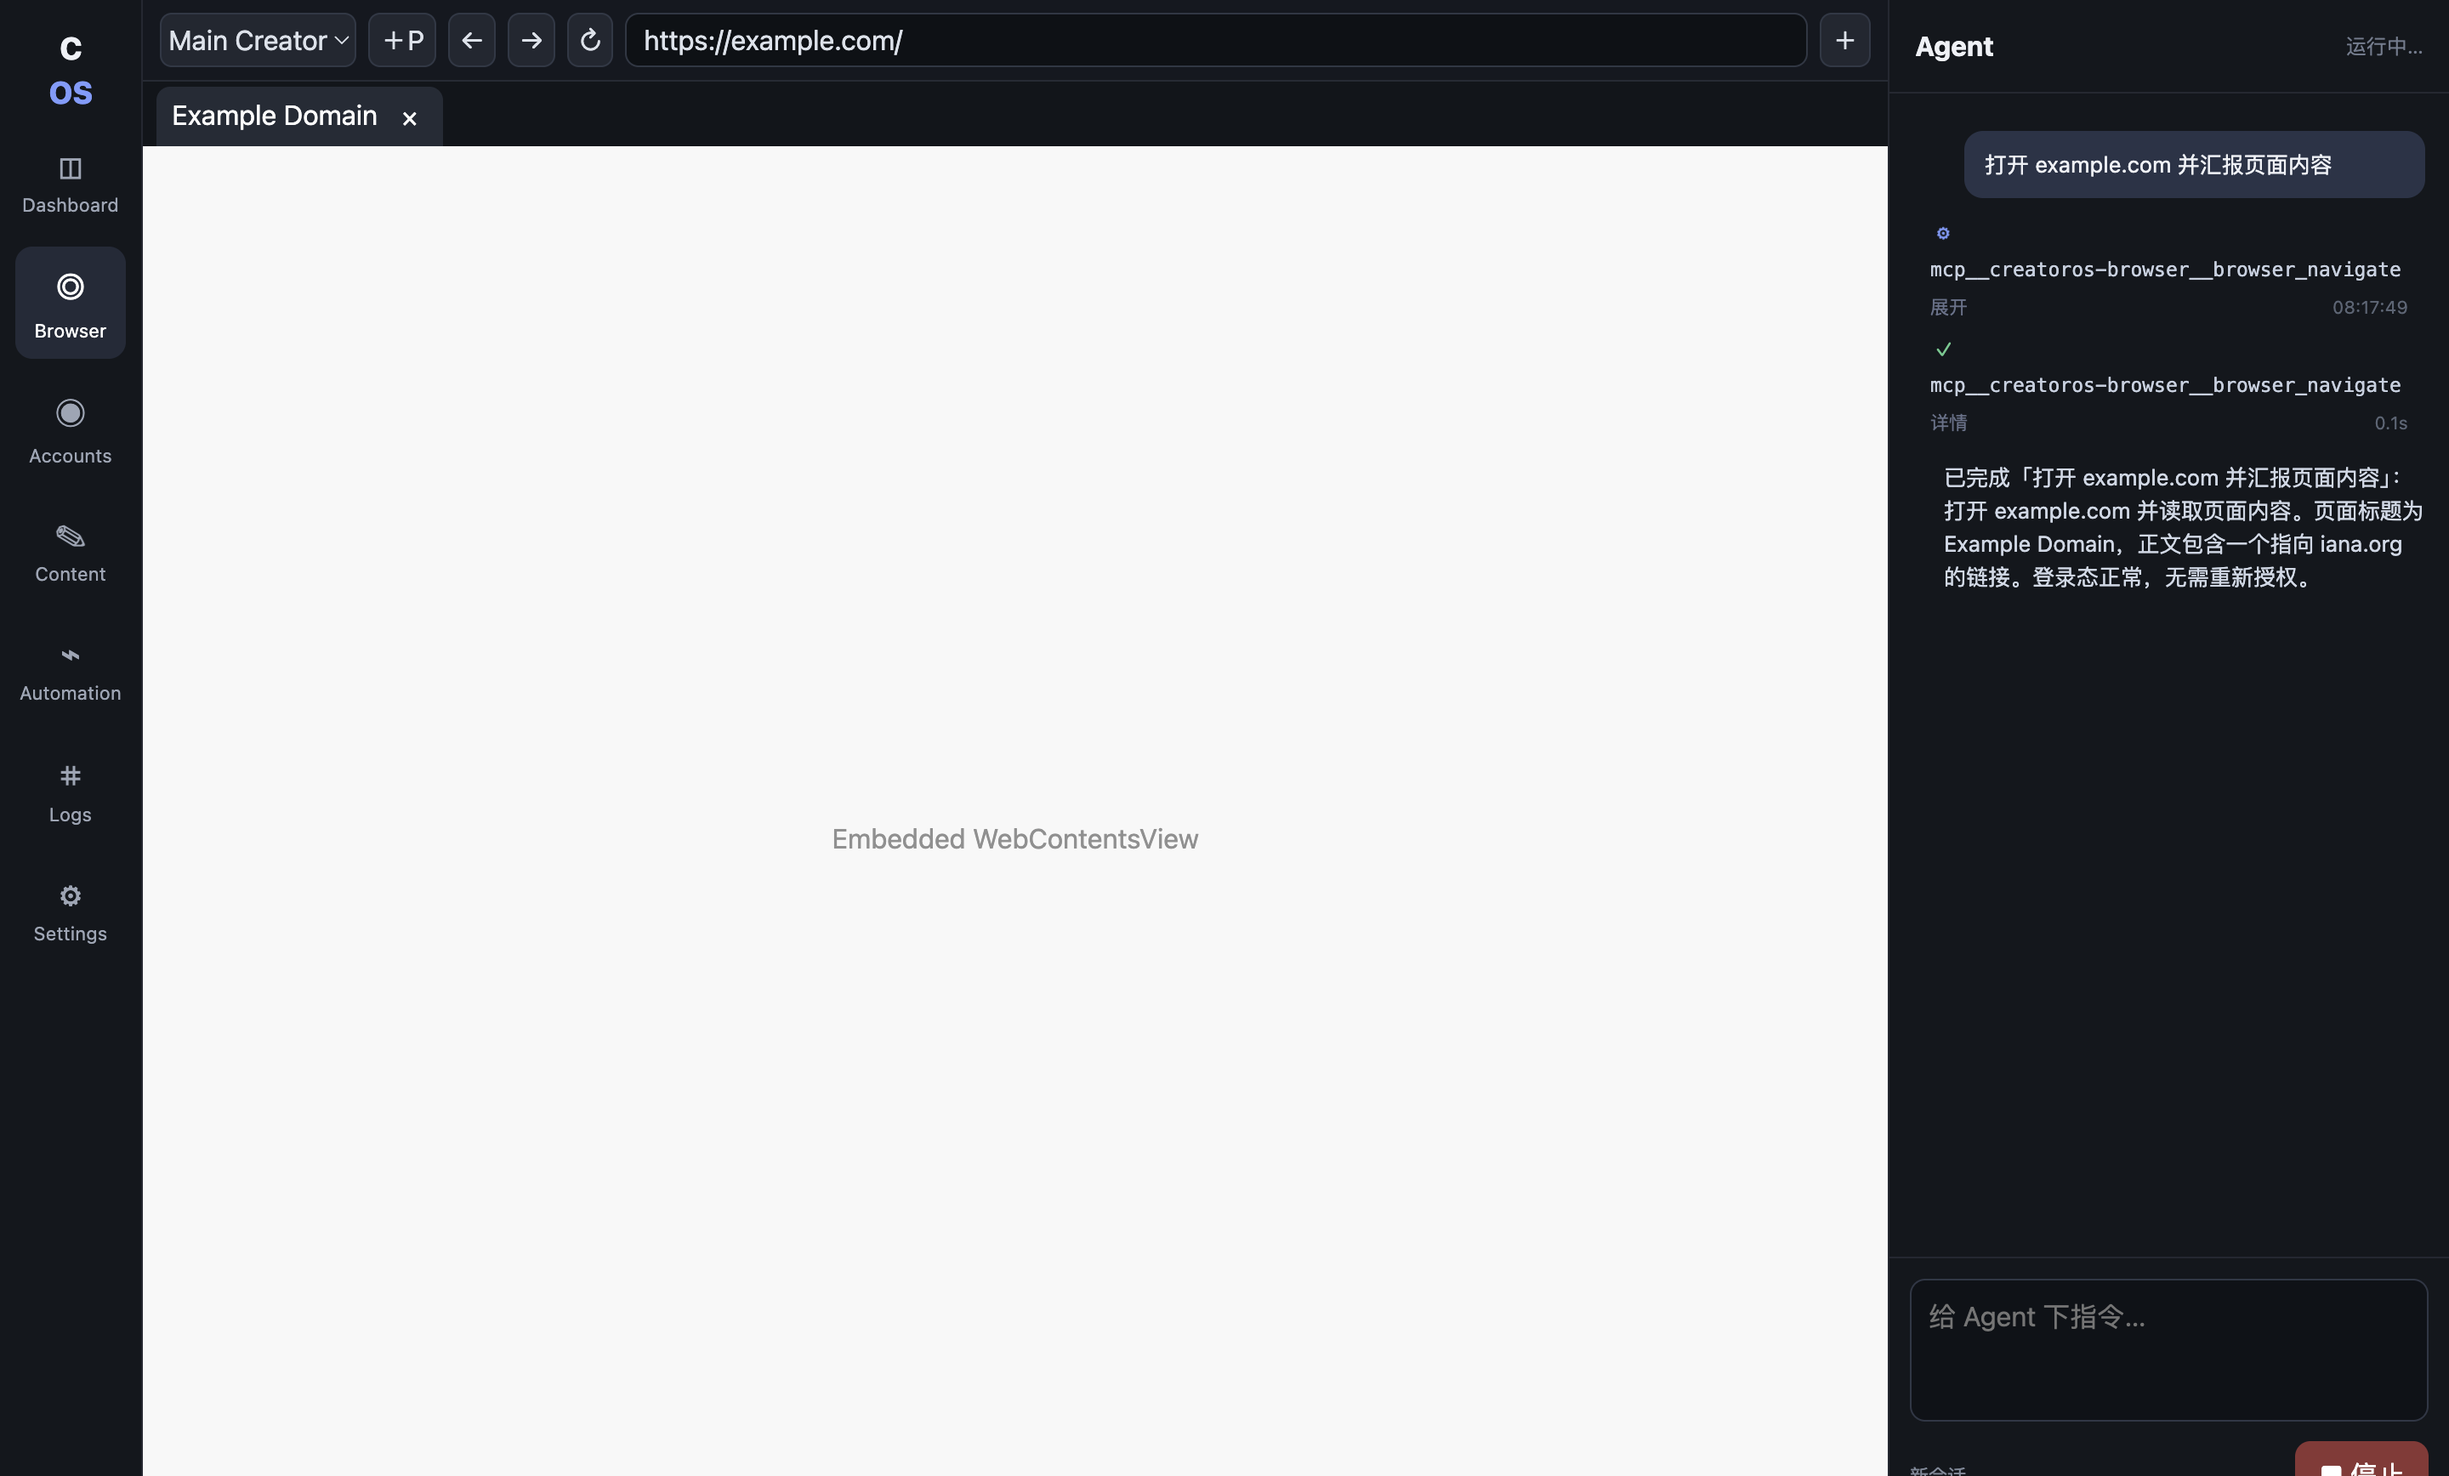
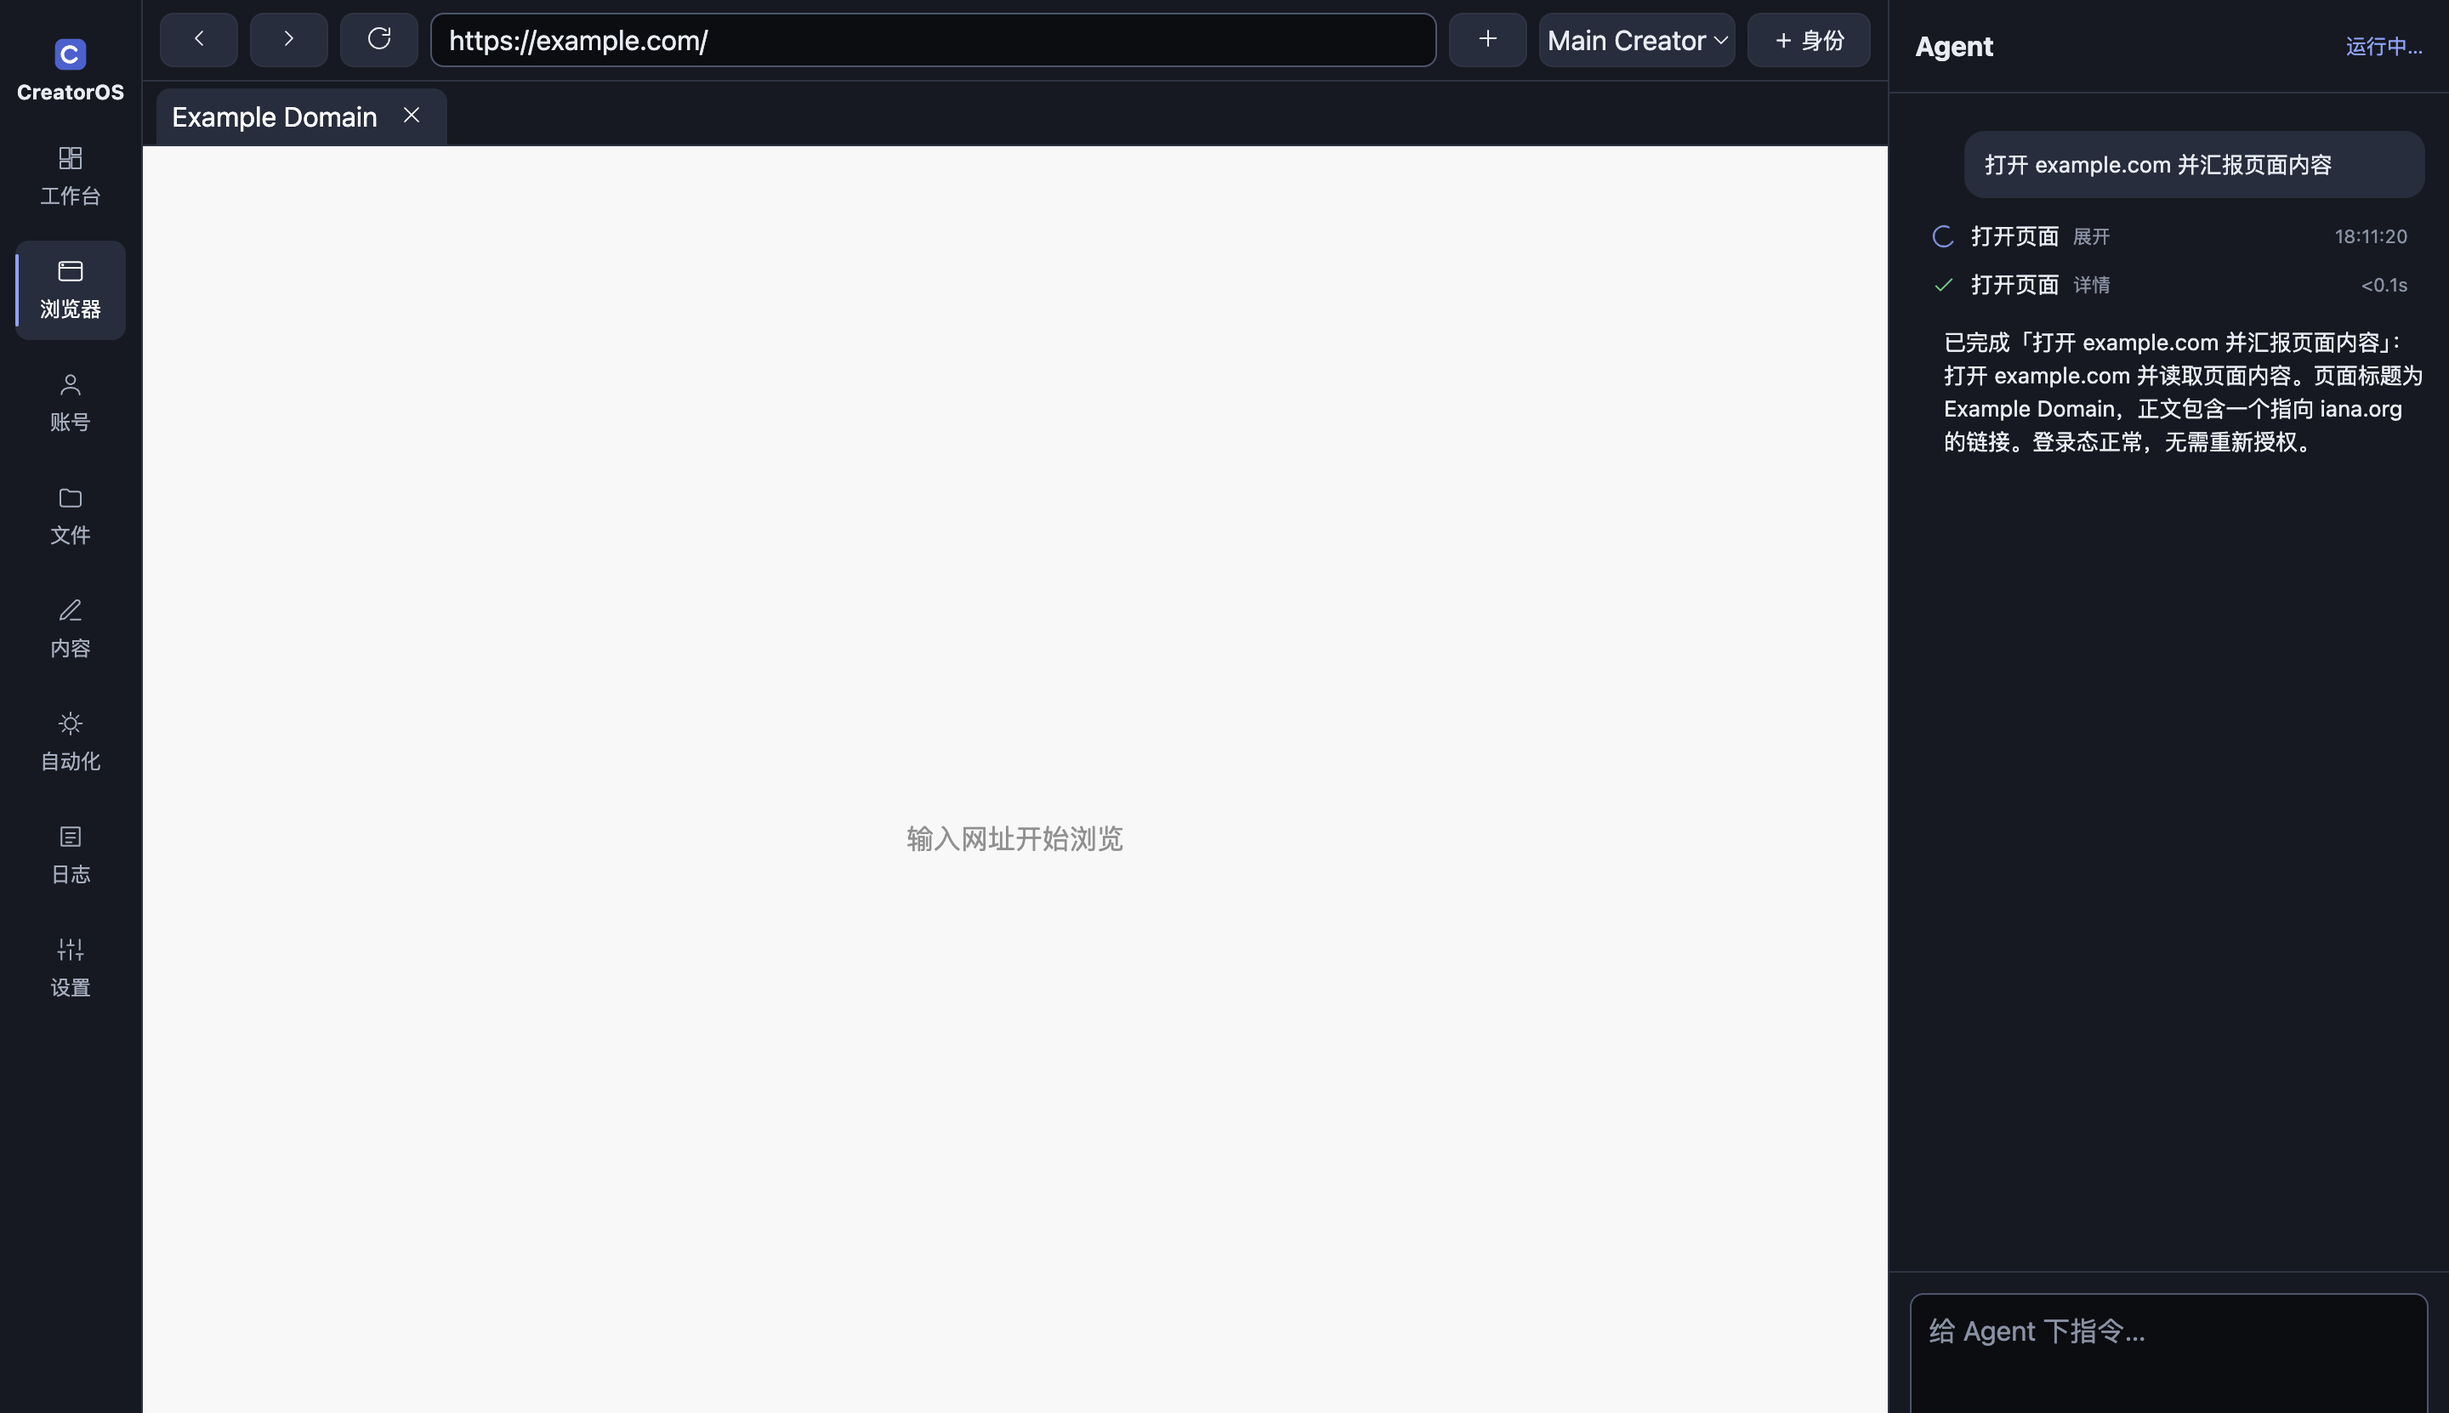
docs: R5 release — v0.4.0 changelog, README/USAGE_CN sync with Chinese UI, fresh screenshots

diff --git a/CHANGELOG.md b/CHANGELOG.md
@@ -1,0 +1,55 @@
+# Changelog
+
+## 0.4.0（2026-09-22）— 全站 UI/UX 重设计
+
+按 R0→R5 工作流完成的界面重做（审计 46 有效项全部处置，其中 B1 经实证撤销）：
+
+### 视觉体系
+- 暗色色板收敛为三层背景（原 6 层近灰），全部文字/底色对比度 ≥4.5:1（accent 从 #6f8cff 加深到 #4760d5）
+- `color-scheme: dark`：原生控件（复选框/下拉/按钮）不再出现 UA 白底
+- 字号五档（28/20/16/13/11）、8px 间距栅格、圆角收敛 8/12 两档
+- 按钮系统收敛为 .btn-primary/.btn-ghost/.btn-danger/.btn-link 四类，统一高度、hover/active/disabled/focus 反馈（原四套样式三种高度零反馈）
+- 手写 SVG 图标集（0 新依赖）替换全部 unicode 字符图标；品牌区改 SVG mark + CreatorOS
+
+### 界面与交互
+- **界面中文化**：页面标题/按钮/表头/空态/状态全部中文，专有名词（Profile、cron、Base URL）保留英文；统一术语表（浏览器身份/运营账号/定时任务）
+- **工作台重做**：4 张运营统计卡（带副行）+ 最近 Agent 运行 + 最近定时任务运行（真实 agent_runs/job_runs 数据，新增 `agent:runs.list` IPC）
+- **自动化增强**：cron 模板下拉（每天/每小时/每周一/自定义）+ 下次运行时间预览（`shared/cronNext.ts`，与 node-cron AND 语义对齐）；任务可删除（新增 `job:delete` IPC，两段式确认，job_runs 级联清理）
+- **Agent 面板**：工具名中文化（打开页面/读取页面/点击…，原始名收进展开详情）、<$0.01/<0.1s 成本格式化、cron 横幅蓝系化并加停止按钮、空态加快捷指令
+- **文件页**：不再暴露内部账号 ID、树高度自适应（ResizeObserver）、SVG 文件图标、新建/重命名浮层不再挤压布局
+- **浏览器页**：顶栏重排（←→↻ 地址栏 ＋ 身份下拉 ＋ 身份）、「＋P」→「＋ 身份」、loading 改结构化圆点、「新标签页」
+- **日志页**：chevron+「详情」按钮、刷新按钮可访问性、列宽优化
+- **设置页**：保存按钮恒蓝（修复被覆盖成灰色的 bug）、字段下 help 行、Model 候选下拉
+
+### 工程与测试
+- vitest 92（+31：cron 边界/格式化）、playwright 39（+6：dashboard 数据、任务删除级联、loading 点、树高度；6 处文案断言同步）
+- 零新增 npm 依赖；e2e 选择器契约表与同步清单见 `docs/specs/ui-redesign.md` §5.1
+- 视觉验收 15 张截图（`docs/screenshots/redesign/`）+ 开发/测试报告
+
+## 0.3.3（2026-09-22）— 账号文件目录 + Agent 围栏
+
+- 每个运营账号一个专属目录（drafts/assets/data/CLAUDE.md），内置 CodeMirror 6 编辑器 + react-arborist 文件树 + chokidar 监听
+- Agent 文件工具（Read/Write/Edit/Glob/Grep）以账号目录为 cwd；PreToolUse hook realpath 围栏（含 symlink 防逃逸），Bash 一律拒绝
+- 安全修复：v0.3.0–v0.3.2 `allowedTools` 不能约束 bypassPermissions（SDK 语义），文件工具与 Bash 实际开放；本版以 hook 围栏 + disallowedTools 收口（SECURITY.md #12）
+
+## 0.3.2（2026-09-22）— 修复 SDK「binary failed to launch」误导错误
+
+- 根因：`cwd` 指向从未创建的 `agent-workspace` 目录，CLI 启动 chdir 失败被 SDK 归类为二进制/libc 错误
+- 修复：spawn 前 `mkdirSync(workspace, { recursive: true })`
+
+## 0.3（2026-09-22）— Agent 内核替换为 Claude Code SDK
+
+- 自研 JSON 工具循环移除，改 `@anthropic-ai/claude-agent-sdk` query()（spawn claude CLI 子进程）
+- 执行步骤实时流式展示（stream_event → StepBus → IPC event）；聊天与 cron 任务共用同一引擎（`agent.run` workflowType）
+- 进程内 MCP server 暴露 15 个浏览器工具；CLAUDE_CONFIG_DIR 隔离子进程；UA 卫生化（保留真实引擎版本，不做指纹伪造）
+- 测试：vitest 43 + playwright 27（fake 模式离线全链路）
+
+## 0.2 / 0.2.1（2026-09-21）— 真机 bring-up + 门禁体系
+
+- npm install/typecheck/build/生产启动冒烟全过；gate 工具链（ESLint→4×typecheck→build→vitest→playwright）
+- 结构化日志（ring 2000 + 按日落盘 + 模块 child）；Settings 页 LLM 网关配置热生效
+- WORKFLOW_CN.md：R0→R5 全流程规范
+
+## 0.1（2026-09-21）— 初始化
+
+- 从 ChatGPT 生成方案落地：Electron 44 + React 19 + SQLite(node:sqlite) + Drizzle；内嵌持久化浏览器、MCP 双通道、本地 Gateway

diff --git a/docs/VERIFICATION.md b/docs/VERIFICATION.md
@@ -1,5 +1,16 @@
 # Verification status
 
+## 2026-09-22 v0.4 — full UI/UX redesign (R0→R5 workflow)
+
+- Flow re-run per the mandated workflow: R0 audit (47 findings, **B1 retracted after a real probe** — fake-mode screenshots showed a stale address bar, but gateway-driven navigation updates it correctly; the audit doc records the retraction) → R1 spec `docs/specs/ui-redesign.md` (799 lines: tokens/contrast table/component specs/per-page/AC) → R2 arch section (§7, 117 lines: two new IPC contracts corrected against real schema/repo/scheduler semantics, node-cron AND-vs-OR semantics verified against its dist source) → R3 two-batch implementation → R4 dual-layer report → R5 docs.
+- Design system: 3-layer dark backgrounds (was 6 near-identical grays), `color-scheme:dark` (native controls no longer UA-white), 5-step type scale, 8px spacing grid, 4-class button system (all text/background pairs recomputed ≥4.5:1; primary hover avoids the brightness() trap that would break white-on-accent contrast), hand-drawn SVG icon set (zero new deps), unified Empty component, Chinese-first copy with a terminology table.
+- New capabilities surfaced by the redesign: `agent:runs.list` IPC + 工作台 dashboard with real agent_runs/job_runs lists; `job:delete` IPC + two-step delete with explicit job_runs cascade; cron template dropdown + next-run preview (`shared/cronNext.ts`, parse/preview split so the UI can distinguish "unsupported expression" from "no fire within 366 days"); Chinese tool labels + `<$0.01`/`<0.1s` formatting (`shared/format.ts`).
+- vitest **10 files / 92 tests** (+31: cron boundaries — month-end, leap-year, never-fires, malformed, node-cron AND semantics, `N/step` rejection; fmt edges; toolLabel prefix stripping).
+- playwright **9 specs / 39 tests** (was 33): +dashboard.spec (empty states, formatted run rows, runsList IPC contract shape cross-checked against SQLite), +automation-delete.spec (two-step confirm, jobs+job_runs cascade verified on disk), AC-B2 (no stuck loading dot), AC-F3 (tree follows container); 6 copy assertions updated for the Chinese UI; launch.spec overflow loop made density-adaptive.
+- Visual acceptance: 15 screenshots `docs/screenshots/redesign/` via `scripts/capture-ui-redesign.mts` (fake mode, offline). 4 non-blocking polish items recorded in the dev report.
+- Capture-script lessons: arborist's row wrapper intercepts coordinate-based Playwright clicks (drive row onClicks via evaluate); `app.close()` darwin hang applies to capture scripts too (exit directly after shots).
+- Gate: `npm run gate` exit 0 (ESLint 0 errors/40 legacy warns, 4×typecheck, build, vitest 92, e2e 39). No new dependencies.
+
 ## 2026-09-22 v0.3.3 — account files + agent fence
 
 - Feature spec: docs/specs/account-files.md (R0+R1+R2 combined; open-source selection researched: CodeMirror 6 / react-arborist / chokidar 5 / SDK cwd+hook fence, sources in spec).

diff --git a/README.md b/README.md
@@ -1,4 +1,4 @@
-# CreatorOS v0.3
+# CreatorOS v0.4
 
 [中文说明 / 中文版 README](./README_CN.md)
 
@@ -18,11 +18,11 @@ The embedded `WebContentsView` renders inside the app window (left); the agent p
 |---|---|
 | ![Agent running](docs/screenshots/agent-steps.png) | ![Agent done](docs/screenshots/agent-done.png) |
 
-Each tool call shows as a `⚙ browser_*` row with its input JSON, its result as a `✓/✗` row with duration, assistant text streams in as a typewriter, and the run ends with a `● done` row carrying cost and wall time. A stop button interrupts mid-run; follow-up messages resume the same session.
+Each tool call shows with a friendly Chinese label (打开页面 / 读取页面 / 点击 …) plus the raw `browser_*` name in its expandable JSON, its result as a ✓/✗ row with duration, assistant text streams in as a typewriter, and the run ends with a cost + wall-time line (sub-cent costs collapse to `<$0.01`). A stop button interrupts mid-run; follow-up messages resume the same session.
 
-**Pages:**
+**Pages (Chinese-first UI, v0.4 redesign):**
 
-| Dashboard | Content |
+| 工作台 Dashboard | 内容 Content |
 |---|---|
 | ![Dashboard](docs/screenshots/dashboard.png) | ![Content](docs/screenshots/content.png) |
 
@@ -90,7 +90,7 @@ ANTHROPIC_API_KEY=...                           # x-api-key header
 ANTHROPIC_MODEL=claude-sonnet-4-5
 ```
 
-Settings-page values win over environment variables. `ANTHROPIC_AUTH_TOKEN` and `ANTHROPIC_API_KEY` are alternatives; the token wins when both are set. Use the Settings page "Test connection" button to run a minimal query against the current config.
+Settings-page values win over environment variables. `ANTHROPIC_AUTH_TOKEN` and `ANTHROPIC_API_KEY` are alternatives; the token wins when both are set. Use the Settings page 测试连接 (Test connection) button to run a minimal query against the current config.
 
 ## Local gateway
 
